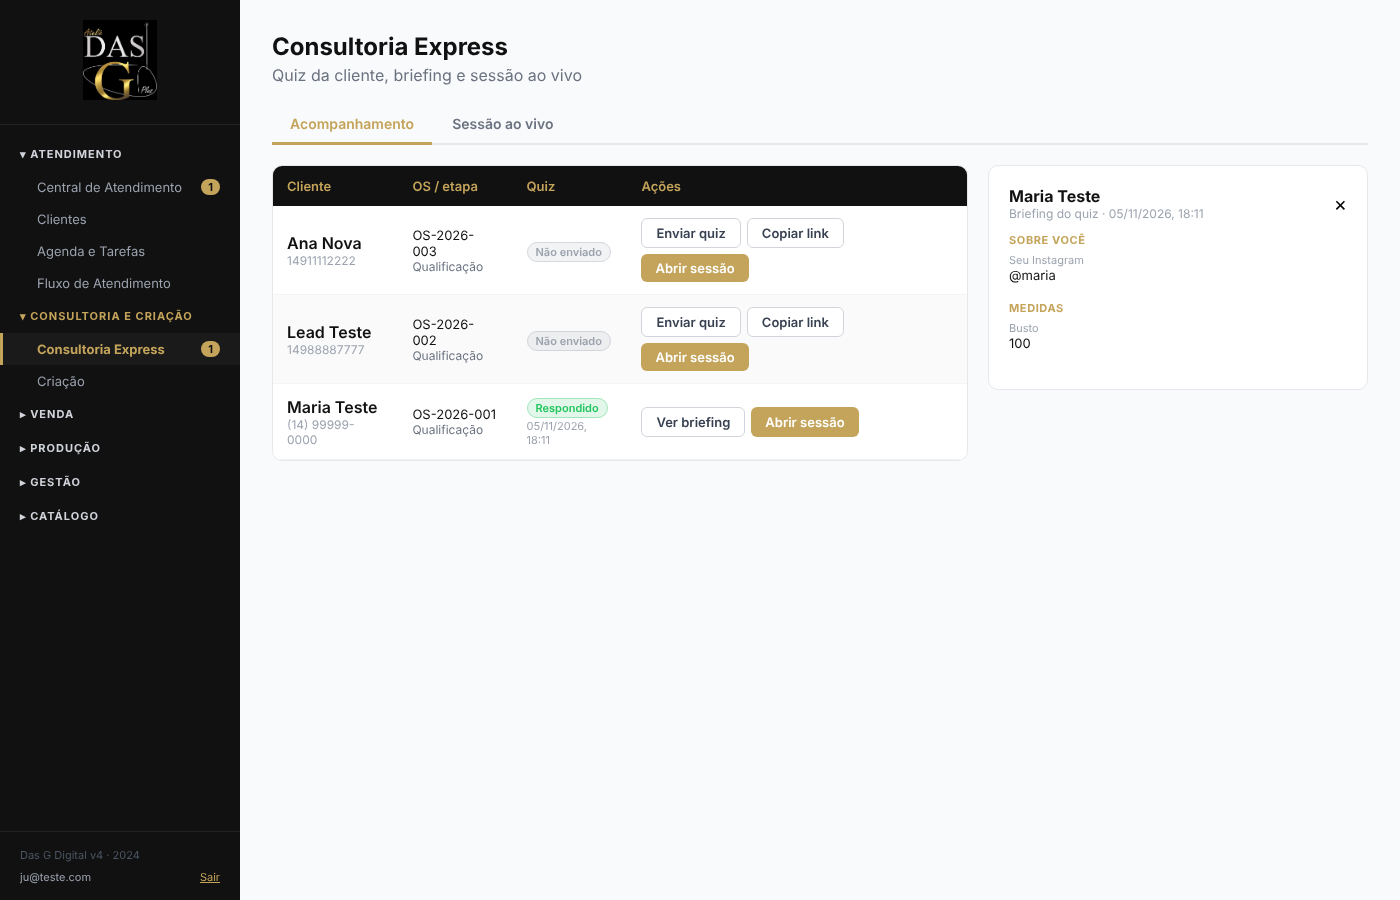
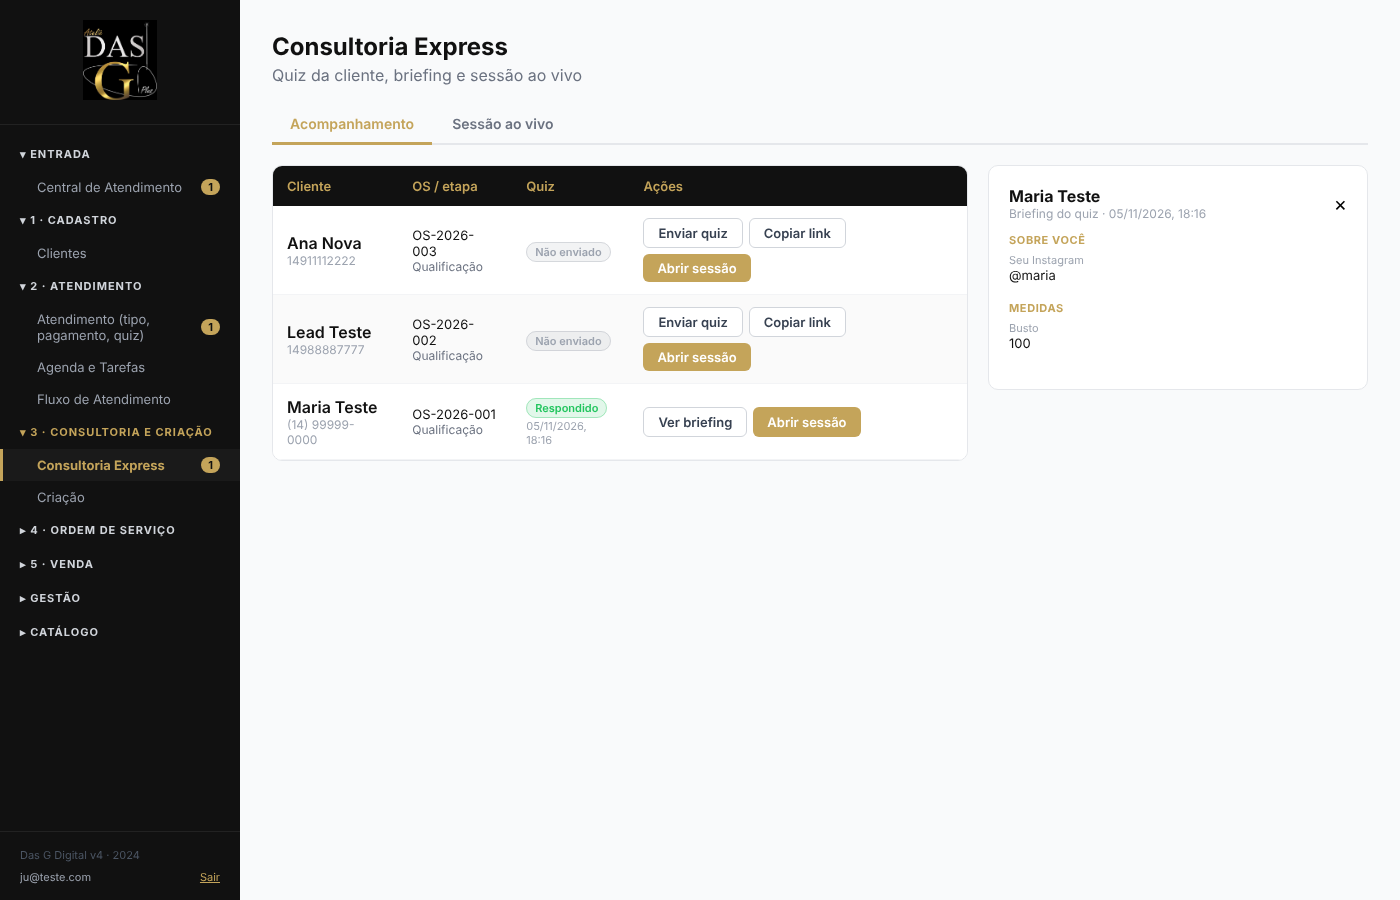
Atendimento (tipo, pagamento, quiz com envios e respostas) e menu na ordem do fluxo
Claude-Session: https://claude.ai/code/session_01FxfKeRtaChjsf2CxAMQed3

diff --git a/src/modulos/Atendimento.jsx b/src/modulos/Atendimento.jsx
@@ -1,0 +1,145 @@
+import { useMemo, useState } from 'react';
+import { supabase } from '../lib/supabaseClient.js';
+import { criarOS, enviarQuizPorWhatsApp, ROTULO_ETAPA } from '../lib/api.js';
+import { linkDoQuiz } from './quizConsultoria.js';
+import { BriefingQuiz } from './Consultoria.jsx';
+import ChecklistAtendimento, { statusChecklist } from './ChecklistAtendimento.jsx';
+import { TIPOS_ATENDIMENTO, tipoDaOS } from './tiposAtendimento.js';
+import { Badge, Card, BtnPrimary, BtnSecondary, TabBar, Campo, Aviso, fmtDateTime, erroDeSchema } from './ui.jsx';
+
+// 2º passo do fluxo: Atendimento. Define o tipo (Estilista Express, Consultoria Express ou Atendimento),
+// dispara o link de pagamento, o quiz (quando o tipo pede), a confirmação e a videoconferência.
+const msgErro = (e) => erroDeSchema(e) ? 'Falta aplicar a migração 20261105000002 no Supabase. ' + e.message : (e.message || String(e));
+const OPCOES_TIPO = Object.entries(TIPOS_ATENDIMENTO).map(([value, t]) => ({ value, label: t.label }));
+const STATUS_QUIZ = { criado: ['Link criado', '#6b7280'], enviado: ['Enviado, aguardando', '#f59e0b'], respondido: ['Respondido', '#16a34a'] };
+
+export default function Atendimento({ clientes, os, agenda, tarefas = [], quizEnvios, onRecarregar, onNavegar }) {
+  const [aba, setAba] = useState('atendimentos');
+  const [aberta, setAberta] = useState(null);
+  const [filtroQuiz, setFiltroQuiz] = useState('todos');
+  const [verResp, setVerResp] = useState(null);
+  const [novo, setNovo] = useState(null);
+  const [erro, setErro] = useState('');
+  const [aviso, setAviso] = useState('');
+  const [ocupado, setOcupado] = useState('');
+
+  const cli = (id) => clientes.find(c => c.id === id);
+  const emAtendimento = useMemo(() => os.filter(o => o.status_idx <= 8).sort((a, b) => new Date(b.criado_em || 0) - new Date(a.criado_em || 0)), [os]);
+
+  async function mudarTipo(o, tipo) {
+    const { error } = await supabase.from('ordens_servico').update({ tipo_atendimento: tipo }).eq('id', o.id);
+    if (error) { setErro(msgErro(error)); return; }
+    await onRecarregar();
+  }
+  async function criarAtendimento() {
+    if (!novo?.cliente_id) { setErro('Escolha a cliente.'); return; }
+    setOcupado('novo'); setErro('');
+    const r = await criarOS({ cliente: cli(novo.cliente_id), listaOS: os, descricao: novo.descricao, tipo_atendimento: novo.tipo, etapaInicial: 'qualificacao' });
+    setOcupado('');
+    if (r.error) { setErro(msgErro(r.error)); return; }
+    await onRecarregar(); setNovo(null); setAberta(r.data.id); setAviso(`Atendimento ${r.data.numero} aberto.`);
+  }
+  async function enviarQuiz(o) {
+    setOcupado('q' + o.id); setErro(''); setAviso('');
+    const r = await enviarQuizPorWhatsApp({ cliente: cli(o.cliente_id), os: o });
+    setOcupado('');
+    if (r.error) { setErro(r.error); return; }
+    await onRecarregar(); setAviso('Link do quiz enviado pelo WhatsApp.');
+  }
+  async function copiar(q) { try { await navigator.clipboard.writeText(linkDoQuiz(q.token)); setAviso('Link copiado.'); } catch { setAviso(linkDoQuiz(q.token)); } }
+
+  const quizzes = quizEnvios.filter(q => filtroQuiz === 'todos' || (filtroQuiz === 'respondidos' ? q.status === 'respondido' : q.status !== 'respondido'));
+  const precisamQuiz = os.filter(o => tipoDaOS(o).quiz && o.status_idx <= 12 && !quizEnvios.some(q => q.ordem_servico_id === o.id));
+  const proximos = agenda.filter(a => (a.departamento || 'atendimento') === 'atendimento' && a.status !== 'cancelado' && new Date(a.data_hora) >= new Date(Date.now() - 3600000)).sort((a, b) => new Date(a.data_hora) - new Date(b.data_hora)).slice(0, 10);
+  const abertas = tarefas.filter(t => (t.departamento || 'atendimento') === 'atendimento' && t.status !== 'concluida').slice(0, 10);
+
+  return (
+    <div>
+      <div style={{ marginBottom: 20 }}><h1 style={{ fontSize: 24, fontWeight: 700 }}>Atendimento</h1><p style={{ color: '#6b7280', marginTop: 4 }}>Defina o tipo de atendimento, envie o link de pagamento e o quiz, e acompanhe as respostas</p></div>
+      {aviso && <Aviso tipo="ok">{aviso}</Aviso>}{erro && <Aviso tipo="erro">{erro}</Aviso>}
+      <TabBar active={aba} onChange={setAba} tabs={[{ id: 'atendimentos', label: 'Atendimentos', count: emAtendimento.length }, { id: 'quiz', label: 'Quiz (envios e respostas)', count: quizEnvios.filter(q => q.status === 'respondido').length }, { id: 'agenda', label: 'Agendamentos e tarefas' }]} />
+
+      {aba === 'atendimentos' && (
+        <div>
+          <div style={{ marginBottom: 14 }}>{!novo ? <BtnPrimary onClick={() => setNovo({ cliente_id: '', tipo: 'consultoria_express', descricao: '' })}>+ Novo atendimento</BtnPrimary> : (
+            <Card style={{ background: '#fffdf7' }}>
+              <div style={{ display: 'grid', gridTemplateColumns: '1fr 1fr', gap: 12 }}>
+                <Campo label="Cliente" value={novo.cliente_id} onChange={v => setNovo(n => ({ ...n, cliente_id: v }))} options={clientes.map(c => ({ value: c.id, label: c.nome }))} ajuda="Cliente ainda não cadastrada? Cadastre primeiro em Clientes." />
+                <Campo label="Tipo de atendimento" value={novo.tipo} onChange={v => setNovo(n => ({ ...n, tipo: v }))} options={OPCOES_TIPO} />
+              </div>
+              <Campo label="Do que se trata (opcional)" value={novo.descricao} onChange={v => setNovo(n => ({ ...n, descricao: v }))} />
+              <div style={{ display: 'flex', gap: 8 }}><BtnPrimary disabled={!!ocupado} onClick={criarAtendimento}>{ocupado === 'novo' ? 'Abrindo...' : 'Abrir atendimento'}</BtnPrimary><BtnSecondary onClick={() => setNovo(null)}>Cancelar</BtnSecondary></div>
+            </Card>)}</div>
+          {emAtendimento.length === 0 && <div style={{ color: '#9ca3af' }}>Nenhum atendimento em andamento.</div>}
+          {emAtendimento.map(o => {
+            const c = cli(o.cliente_id); const s = statusChecklist({ os: o, agenda, quizEnvios });
+            return (
+              <Card key={o.id} style={{ marginBottom: 12 }}>
+                <div style={{ display: 'flex', justifyContent: 'space-between', gap: 10, flexWrap: 'wrap', alignItems: 'center' }}>
+                  <div><strong>{o.numero}</strong> · {c?.nome || '—'} <span style={{ color: '#9ca3af', fontSize: 12 }}>{o.descricao}</span></div>
+                  <div style={{ display: 'flex', gap: 6, flexWrap: 'wrap' }}>
+                    <Badge label={ROTULO_ETAPA[o.status] || o.status} color="#c4a45a" />
+                    <Badge label={s.agendado ? 'Agendado' : 'Sem horário'} color={s.agendado ? '#16a34a' : '#9ca3af'} />
+                    {s.precisaQuiz && <Badge label={s.respondeu ? 'Quiz respondido' : s.quiz ? 'Quiz enviado' : 'Quiz pendente'} color={s.respondeu ? '#16a34a' : '#f59e0b'} />}
+                    <Badge label={s.pago ? 'Pago' : 'Pagamento pendente'} color={s.pago ? '#16a34a' : '#f59e0b'} />
+                  </div>
+                </div>
+                <div style={{ display: 'flex', gap: 10, alignItems: 'end', marginTop: 10, flexWrap: 'wrap' }}>
+                  <div style={{ minWidth: 220 }}><Campo label="Tipo de atendimento" value={o.tipo_atendimento || 'consultoria_express'} onChange={v => v && mudarTipo(o, v)} options={OPCOES_TIPO} /></div>
+                  <div style={{ marginBottom: 14 }}><BtnSecondary small onClick={() => setAberta(aberta === o.id ? null : o.id)}>{aberta === o.id ? 'Fechar passos' : 'Pagamento, quiz e confirmações'}</BtnSecondary></div>
+                  {s.pronta && <div style={{ marginBottom: 14 }}><BtnPrimary small onClick={() => onNavegar('consultoria')}>Ir para a consultoria</BtnPrimary></div>}
+                </div>
+                {aberta === o.id && <ChecklistAtendimento os={o} cliente={c} agenda={agenda} quizEnvios={quizEnvios} onRecarregar={onRecarregar} onNavegar={onNavegar} />}
+              </Card>);
+          })}
+        </div>
+      )}
+
+      {aba === 'quiz' && (
+        <div>
+          {precisamQuiz.length > 0 && (
+            <Card style={{ marginBottom: 16, background: '#fffdf7' }}>
+              <h3 style={{ fontWeight: 700, marginBottom: 8 }}>Ainda sem quiz enviado</h3>
+              {precisamQuiz.map(o => <div key={o.id} style={{ display: 'flex', justifyContent: 'space-between', alignItems: 'center', padding: '6px 0', borderBottom: '1px solid #f3f4f6', gap: 8, flexWrap: 'wrap' }}>
+                <span style={{ fontSize: 14 }}>{o.numero} · {cli(o.cliente_id)?.nome} <span style={{ color: '#9ca3af', fontSize: 12 }}>({tipoDaOS(o).label})</span></span>
+                <BtnPrimary small disabled={!!ocupado || !cli(o.cliente_id)?.telefone} onClick={() => enviarQuiz(o)}>{ocupado === 'q' + o.id ? 'Enviando...' : 'Enviar quiz'}</BtnPrimary></div>)}
+            </Card>)}
+          <div style={{ display: 'flex', gap: 8, marginBottom: 12 }}>
+            {[['todos', 'Todos'], ['aguardando', 'Aguardando resposta'], ['respondidos', 'Respondidos']].map(([k, l]) => <button key={k} onClick={() => setFiltroQuiz(k)} style={{ border: '1px solid #d1d5db', borderRadius: 16, padding: '4px 12px', background: filtroQuiz === k ? '#111' : '#fff', color: filtroQuiz === k ? '#c4a45a' : '#374151', fontSize: 12, cursor: 'pointer' }}>{l}</button>)}
+          </div>
+          {quizzes.length === 0 && <div style={{ color: '#9ca3af' }}>Nenhum quiz por aqui.</div>}
+          {quizzes.map(q => {
+            const o = os.find(x => x.id === q.ordem_servico_id); const c = cli(q.cliente_id) || cli(o?.cliente_id); const [rot, cor] = STATUS_QUIZ[q.status] || STATUS_QUIZ.criado;
+            return (
+              <Card key={q.id} style={{ marginBottom: 10 }}>
+                <div style={{ display: 'flex', justifyContent: 'space-between', gap: 10, flexWrap: 'wrap', alignItems: 'center' }}>
+                  <div><strong>{c?.nome || q.nome_cliente || '—'}</strong> {o && <span style={{ color: '#6b7280', fontSize: 13 }}>· {o.numero} · {tipoDaOS(o).label}</span>}
+                    <div style={{ fontSize: 12, color: '#6b7280', marginTop: 2 }}>Criado {fmtDateTime(q.criado_em)}{q.enviado_em ? ' · enviado ' + fmtDateTime(q.enviado_em) : ' · ainda não enviado'}{q.respondido_em ? ' · respondido ' + fmtDateTime(q.respondido_em) : ''}</div></div>
+                  <div style={{ display: 'flex', gap: 8, alignItems: 'center', flexWrap: 'wrap' }}>
+                    <Badge label={rot} color={cor} />
+                    {q.status !== 'respondido' && o && <BtnSecondary small disabled={!!ocupado} onClick={() => enviarQuiz(o)}>{q.enviado_em ? 'Reenviar' : 'Enviar'} pelo WhatsApp</BtnSecondary>}
+                    {q.token && <BtnSecondary small onClick={() => copiar(q)}>Copiar link</BtnSecondary>}
+                    {q.status === 'respondido' && <BtnPrimary small onClick={() => setVerResp(verResp === q.id ? null : q.id)}>{verResp === q.id ? 'Fechar respostas' : 'Ver respostas'}</BtnPrimary>}
+                  </div>
+                </div>
+                {verResp === q.id && <div style={{ marginTop: 12, borderTop: '1px solid #f3f4f6', paddingTop: 12 }}><BriefingQuiz respostas={q.respostas} /></div>}
+              </Card>);
+          })}
+        </div>
+      )}
+
+      {aba === 'agenda' && (
+        <div style={{ display: 'grid', gridTemplateColumns: '1fr 1fr', gap: 16 }}>
+          <Card><h3 style={{ fontWeight: 700, marginBottom: 8 }}>Próximos agendamentos</h3>
+            {proximos.length === 0 && <div style={{ color: '#9ca3af', fontSize: 13 }}>Nada agendado.</div>}
+            {proximos.map(a => <div key={a.id} style={{ fontSize: 13, padding: '5px 0', borderBottom: '1px solid #f3f4f6' }}><strong>{fmtDateTime(a.data_hora)}</strong> · {a.titulo || cli(a.cliente_id)?.nome} <Badge label={a.status || 'agendado'} color="#6b7280" /></div>)}
+            <div style={{ marginTop: 10 }}><BtnPrimary small onClick={() => onNavegar('agenda')}>Abrir Agenda e Tarefas</BtnPrimary></div></Card>
+          <Card><h3 style={{ fontWeight: 700, marginBottom: 8 }}>Tarefas do atendimento</h3>
+            {abertas.length === 0 && <div style={{ color: '#9ca3af', fontSize: 13 }}>Nenhuma tarefa aberta.</div>}
+            {abertas.map(t => <div key={t.id} style={{ fontSize: 13, padding: '5px 0', borderBottom: '1px solid #f3f4f6' }}>{t.titulo}{t.prazo ? <span style={{ color: '#9ca3af' }}> · prazo {new Date(t.prazo + 'T12:00:00').toLocaleDateString('pt-BR')}</span> : null}</div>)}
+            <div style={{ marginTop: 10 }}><BtnSecondary small onClick={() => onNavegar('agenda')}>Abrir tarefas</BtnSecondary></div></Card>
+        </div>
+      )}
+    </div>
+  );
+}

diff --git a/src/modulos/ChecklistAtendimento.jsx b/src/modulos/ChecklistAtendimento.jsx
@@ -2,6 +2,7 @@ import { useState } from 'react';
 import { supabase } from '../lib/supabaseClient.js';
 import { enviarWhatsApp, msgConfirmacaoEvento, whatsappConfigurado } from '../lib/whatsapp.js';
 import { enviarQuizPorWhatsApp } from '../lib/api.js';
+import { tipoDaOS } from './tiposAtendimento.js';
 import { Badge, Card, BtnPrimary, BtnSecondary, Campo, Aviso, fmtDateTime, erroDeSchema } from './ui.jsx';
 
 // Checklist do atendimento de uma OS: agendou → confirmou o horário → quiz → pagamento da consultoria → vídeo.
@@ -31,9 +32,10 @@ export function statusChecklist({ os, agenda, quizEnvios }) {
   const quiz = (quizEnvios || []).filter(q => q.ordem_servico_id === os.id).sort((x, y) => new Date(y.criado_em) - new Date(x.criado_em))[0] || null;
   const agendado = !!ev;
   const confirmado = ev?.status === 'confirmado' || ev?.status === 'realizado';
-  const respondeu = quiz?.status === 'respondido';
+  const precisaQuiz = tipoDaOS(os).quiz;
+  const respondeu = !precisaQuiz || quiz?.status === 'respondido';
   const pago = os.pagamento_status === 'pago';
-  return { ev, quiz, agendado, confirmado, respondeu, pago, pronta: agendado && confirmado && respondeu && pago };
+  return { ev, quiz, precisaQuiz, agendado, confirmado, respondeu, pago, pronta: agendado && confirmado && respondeu && pago };
 }
 
 export default function ChecklistAtendimento({ os, cliente, agenda, quizEnvios, onRecarregar, onNavegar }) {
@@ -86,7 +88,7 @@ export default function ChecklistAtendimento({ os, cliente, agenda, quizEnvios, 
     if (!linkPg.trim()) throw new Error('Cole o link de pagamento da consultoria.');
     await salvarPagamento();
     const v = valor !== '' ? ` (${brl(valor)})` : '';
-    await enviar(`Olá, ${primeiroNome(cliente?.nome)}! Para reservar o seu horário da consultoria${v}, segue o link de pagamento:\n\n${linkPg.trim()}\n\nAssim que o pagamento for confirmado eu libero tudo por aqui. Qualquer dúvida é só chamar!`);
+    await enviar(`Olá, ${primeiroNome(cliente?.nome)}! Para reservar o seu horário ${tipoDaOS(os).pagamento}${v}, segue o link de pagamento:\n\n${linkPg.trim()}\n\nAssim que o pagamento for confirmado eu libero tudo por aqui. Qualquer dúvida é só chamar!`);
     const { error } = await supabase.from('ordens_servico').update({ pagamento_status: 'link_enviado', pagamento_link_enviado_em: new Date().toISOString() }).eq('id', os.id);
     if (error) throw new Error(msgErro(error));
     return 'Link de pagamento enviado.';
@@ -117,7 +119,7 @@ export default function ChecklistAtendimento({ os, cliente, agenda, quizEnvios, 
     <Card style={{ marginTop: 10, background: '#fffdf7', padding: 16 }}>
       <div style={{ display: 'flex', justifyContent: 'space-between', alignItems: 'center', gap: 8, flexWrap: 'wrap' }}>
         <div style={{ fontWeight: 700 }}>Checklist do atendimento · {os.numero}</div>
-        {s.pronta ? <Badge label="Pronta para a consultoria" color="#16a34a" /> : <Badge label="Faltam passos" color="#f59e0b" />}
+        {s.pronta ? <Badge label="Pronta para o atendimento" color="#16a34a" /> : <Badge label="Faltam passos" color="#f59e0b" />}
       </div>
       {erro && <div style={{ marginTop: 10 }}><Aviso tipo="erro">{erro}</Aviso></div>}
       {aviso && <div style={{ marginTop: 10 }}><Aviso tipo="ok">{aviso}</Aviso></div>}
@@ -139,11 +141,11 @@ export default function ChecklistAtendimento({ os, cliente, agenda, quizEnvios, 
         )}
       </Passo>
 
-      <Passo ok={s.respondeu} titulo="Quiz respondido" detalhe={s.quiz ? (s.respondeu ? `Respondido em ${fmtDateTime(s.quiz.respondido_em)}` : s.quiz.status === 'enviado' ? `Enviado em ${fmtDateTime(s.quiz.enviado_em)}, aguardando resposta` : 'Link criado, ainda não enviado') : 'Quiz ainda não enviado.'}>
+      {s.precisaQuiz && <Passo ok={s.respondeu} titulo="Quiz respondido" detalhe={s.quiz ? (s.respondeu ? `Respondido em ${fmtDateTime(s.quiz.respondido_em)}` : s.quiz.status === 'enviado' ? `Enviado em ${fmtDateTime(s.quiz.enviado_em)}, aguardando resposta` : 'Link criado, ainda não enviado') : 'Quiz ainda não enviado.'}>
         {!s.respondeu && <BtnPrimary small disabled={semZap || !!ocupado} onClick={enviarQuiz}>{ocupado === 'quiz' ? 'Enviando...' : s.quiz ? 'Reenviar quiz' : 'Enviar quiz'}</BtnPrimary>}
-      </Passo>
+      </Passo>}
 
-      <Passo ok={s.pago} titulo="Pagamento da consultoria" detalhe={s.pago ? `Recebido em ${fmtDateTime(os.pago_em)}` : os.pagamento_status === 'link_enviado' ? `Link enviado em ${fmtDateTime(os.pagamento_link_enviado_em)}, aguardando pagamento` : 'Link de pagamento ainda não enviado.'}>
+      <Passo ok={s.pago} titulo={`Pagamento ${tipoDaOS(os).pagamento}`} detalhe={s.pago ? `Recebido em ${fmtDateTime(os.pago_em)}` : os.pagamento_status === 'link_enviado' ? `Link enviado em ${fmtDateTime(os.pagamento_link_enviado_em)}, aguardando pagamento` : 'Link de pagamento ainda não enviado.'}>
         {!s.pago ? (
           <div>
             <div style={{ display: 'grid', gridTemplateColumns: '120px 1fr', gap: 10 }}>

diff --git a/src/DasGCRMv4.jsx b/src/DasGCRMv4.jsx
@@ -1,4 +1,5 @@
-import OrdemServico from './modulos/OrdemServico.jsx';
+import Atendimento from './modulos/Atendimento.jsx';
+import OrdemServico from './modulos/OrdemServico.jsx';
 import OrcamentosOS from './modulos/Orcamentos.jsx';
 import ProvasOS from './modulos/Provas.jsx';
 import PedidosVenda from './modulos/PedidosVenda.jsx';
@@ -1333,7 +1334,7 @@ export default function DasGCRM() {
   const [pagina, setPagina] = useState('central');
   const [osFocoId, setOsFocoId] = useState('');
   const abrirOS = (id) => { setOsFocoId(id); setPagina('os'); };
-  const [gruposAbertos, setGruposAbertos] = useState({ 'Atendimento': true });
+  const [gruposAbertos, setGruposAbertos] = useState({ 'Entrada': true, '1 · Cadastro': true, '2 · Atendimento': true });
   const [clientes, setClientes] = useState([]);
   const [os, setOs] = useState([]);
   const [leads, setLeads] = useState([]);
@@ -1575,6 +1576,7 @@ export default function DasGCRM() {
     { id: 'dashboard', label: 'Dashboard' },
     { id: 'agenda', label: 'Agenda e Tarefas' },
     { id: 'fluxo', label: 'Fluxo de Atendimento' },
+    { id: 'atendimento', label: 'Atendimento (tipo, pagamento, quiz)', dot: quizEnvios.filter(q => q.status === 'respondido' && Date.now() - new Date(q.respondido_em).getTime() < 3 * 86400000).length },
     { id: 'clientes', label: 'Clientes' },
     { id: 'consultoria', label: 'Consultoria Express', dot: quizEnvios.filter(q => q.status === 'respondido' && Date.now() - new Date(q.respondido_em).getTime() < 3 * 86400000).length },
     { id: 'criacao', label: 'Criação' },
@@ -1591,10 +1593,12 @@ export default function DasGCRM() {
     { id: 'produtos', label: 'Cadastro de Produto', dot: produtos.filter(p => (p.status_geral || 'em_aprovacao') === 'em_aprovacao').length },
   ];
   const GRUPOS = [
-    { titulo: 'Atendimento', ids: ['central', 'clientes', 'agenda', 'fluxo'] },
-    { titulo: 'Consultoria e Criação', ids: ['consultoria', 'criacao'] },
-    { titulo: 'Venda', ids: ['orcamentos', 'pedidosvenda'] },
-    { titulo: 'Produção', ids: ['os', 'provas', 'compras'] },
+    { titulo: 'Entrada', ids: ['central'] },
+    { titulo: '1 · Cadastro', ids: ['clientes'] },
+    { titulo: '2 · Atendimento', ids: ['atendimento', 'agenda', 'fluxo'] },
+    { titulo: '3 · Consultoria e Criação', ids: ['consultoria', 'criacao'] },
+    { titulo: '4 · Ordem de Serviço', ids: ['os', 'provas', 'compras'] },
+    { titulo: '5 · Venda', ids: ['orcamentos', 'pedidosvenda'] },
     { titulo: 'Gestão', ids: ['dashboard', 'processos', 'financeiro', 'marketing', 'feedback', 'relatorios'] },
     { titulo: 'Catálogo', ids: ['produtos'] },
   ].map(g => ({ ...g, itens: g.ids.map(id => nav.find(n => n.id === id)).filter(Boolean) }));
@@ -1617,6 +1621,7 @@ export default function DasGCRM() {
       case 'consultoria': return <Consultoria clientes={clientes} os={os} quizEnvios={quizEnvios} onRecarregar={recarregar} onNavegar={setPagina} />;
       case 'criacao': return <CriacaoOS os={os} clientes={clientes} quizEnvios={quizEnvios} onRecarregar={recarregar} onNavegar={setPagina} />;
       case 'orcamentos': return <OrcamentosOS os={os} clientes={clientes} onRecarregar={recarregar} />;
+      case 'atendimento': return <Atendimento clientes={clientes} os={os} agenda={agenda} tarefas={tarefas} quizEnvios={quizEnvios} onRecarregar={recarregar} onNavegar={setPagina} />;
       case 'os': return <OrdemServico os={os} clientes={clientes} osFocoId={osFocoId} onRecarregar={recarregar} onNavegar={setPagina} />;
       case 'pedidosvenda': return <PedidosVenda clientes={clientes} os={os} produtos={produtos} onRecarregar={recarregar} />;
       case 'processos': return <Processos os={os} clientes={clientes} onAbrirCliente={(o) => abrirOS(o.id)} />;

diff --git a/src/lib/api.js b/src/lib/api.js
@@ -77,9 +77,9 @@ export async function criarAtividadeDaEtapa({ os, cliente, slug }) {
   }).select().single();
 }
 
-export async function criarOS({ cliente, listaOS, descricao, data_evento, servico, canal, etapaInicial = 'qualificacao', ocasiao, data_entrega_prevista, data_tecidos_medidas, valor_total }) {
+export async function criarOS({ cliente, listaOS, descricao, data_evento, servico, canal, etapaInicial = 'qualificacao', ocasiao, data_entrega_prevista, data_tecidos_medidas, valor_total, tipo_atendimento }) {
   const { data, error } = await supabase.from('ordens_servico').insert(limpar({
-    cliente_id: cliente.id, numero: proximoNumeroOS(listaOS), descricao, data_evento, servico, tipo: 'encomenda', ocasiao,
+    cliente_id: cliente.id, numero: proximoNumeroOS(listaOS), descricao, data_evento, servico, tipo: 'encomenda', tipo_atendimento, ocasiao,
     data_entrega_prevista, data_tecidos_medidas, valor_total: valor_total ? Number(valor_total) : undefined,
     canal: canal || 'crm', status: etapaInicial,
   })).select().single();

diff --git a/src/modulos/tiposAtendimento.js b/src/modulos/tiposAtendimento.js
@@ -1,0 +1,6 @@
+export const TIPOS_ATENDIMENTO = {
+  estilista_express: { label: 'Estilista Express', quiz: true, pagamento: 'da estilista express' },
+  consultoria_express: { label: 'Consultoria Express', quiz: true, pagamento: 'da consultoria' },
+  atendimento: { label: 'Atendimento (sem quiz)', quiz: false, pagamento: 'do atendimento' },
+};
+export const tipoDaOS = (os) => TIPOS_ATENDIMENTO[os?.tipo_atendimento] || TIPOS_ATENDIMENTO.consultoria_express;
